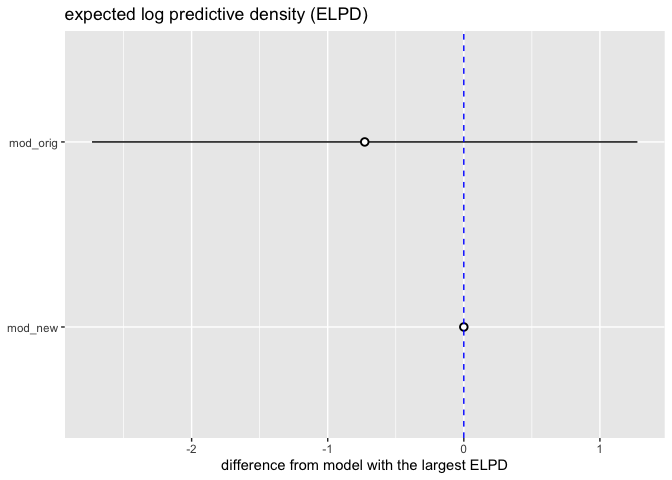
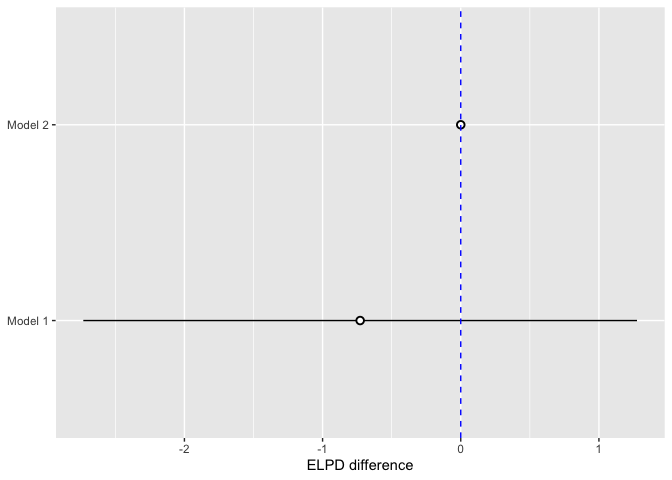
Make additional figure

diff --git a/code/exploration/33_seed-preds-model.md b/code/exploration/33_seed-preds-model.md
@@ -1,7 +1,7 @@
 Seed predators model
 ================
 Eleanor Jackson
-24 April, 2026
+28 April, 2026
 
 ``` r
 library("tidyverse")
@@ -78,18 +78,21 @@ print(comp, digits = 3)
     ## mod_orig -0.728     2.004
 
 ``` r
-comp %>% 
+loo_comp <- 
+  comp %>% 
   data.frame() %>% 
   rownames_to_column(var = "model_name") %>% 
-  ggplot(aes(x    = model_name, elpd_diff, 
+  mutate(name= c("Model 2", "Model 1")) %>% 
+  ggplot(aes(x    = name, elpd_diff, 
              y    = elpd_diff, 
              ymin = elpd_diff - se_diff, 
              ymax = elpd_diff + se_diff)) +
   geom_pointrange(shape = 21, fill = "white") +
   coord_flip() +
   geom_hline(yintercept = 0, colour = "blue", linetype = 2) +
-  labs(x = NULL, y = "difference from model with the largest ELPD", 
-       title = "expected log predictive density (ELPD)") 
+  labs(x = NULL, y = "ELPD difference") 
+
+loo_comp
 ```
 
 ![](figures/33_seed-preds-model/loo-compare-1.png)<!-- -->
@@ -98,8 +101,8 @@ comp %>%
 my_coef_tab <-
   tibble(fit = list(mod_orig,
                     mod_new),
-         model = c("mod_orig",
-                   "mod_new")) %>%
+         model = c("Model 1",
+                   "Model 2")) %>%
   mutate(tidy = purrr::map(
     fit,
     tidy,
@@ -120,19 +123,48 @@ my_coef_tab <-
 ## Compare parameter estimates
 
 ``` r
-my_coef_tab %>% 
+names <-
+  c("Intercept",
+    "Reproductive conspecific density",
+    "Reproductive heterospecific density",
+    "Non-reproductive conspecific density",
+    "log Total seeds",
+    "log Species abundance",
+    "Presence of seed predator")
+
+values <-
+  c("(Intercept)",
+    "conn_RC_sc",
+    "conn_RH_sc",
+    "conn_NRC_sc",
+    "log_total_seeds_sc",
+    "log_median_abundance_sc",
+    "SeedPred_pres1")
+
+lookup <- setNames(names, values)
+```
+
+``` r
+param_comp <- 
+  my_coef_tab %>% 
+  mutate(term = str_replace_all(term, lookup)) %>% 
   mutate(term = as.factor(term)) %>% 
   ggplot(aes(x = term, y = estimate, ymin = conf.low, ymax = conf.high)) +
-  geom_pointrange(shape = 21, fill = "white") +
+  geom_pointrange(shape = 21, fill = "white", size = 0.5) +
   labs(x = "Parameters",
        y = "Estimate ± CI [95%]") +
   geom_hline(yintercept = 0,  color = "blue") +
   coord_flip() +
   theme_bw() +
-  facet_grid(term~model, drop=TRUE, scales = "free")
+  facet_grid(~model, drop=TRUE, scales = "free") +
+  theme(strip.text.y = element_blank())
 ```
 
-![](figures/33_seed-preds-model/estimate-compare-1.png)<!-- -->
+``` r
+param_comp + loo_comp
+```
+
+![](figures/33_seed-preds-model/unnamed-chunk-6-1.png)<!-- -->
 
 ## Conditional effects plots for `mod_new`
 
@@ -154,7 +186,7 @@ wrap_plots(
   coord_cartesian(ylim = c(0,1))
 ```
 
-![](figures/33_seed-preds-model/unnamed-chunk-5-1.png)<!-- -->
+![](figures/33_seed-preds-model/unnamed-chunk-7-1.png)<!-- -->
 
 ``` r
 wrap_plots(
@@ -168,7 +200,7 @@ wrap_plots(
   theme(legend.position = "top")
 ```
 
-![](figures/33_seed-preds-model/unnamed-chunk-5-2.png)<!-- -->
+![](figures/33_seed-preds-model/unnamed-chunk-7-2.png)<!-- -->
 
 ``` r
 wrap_plots(
@@ -181,7 +213,7 @@ wrap_plots(
   theme(legend.position = "top")
 ```
 
-![](figures/33_seed-preds-model/unnamed-chunk-5-3.png)<!-- -->
+![](figures/33_seed-preds-model/unnamed-chunk-7-3.png)<!-- -->
 
 ``` r
 wrap_plots(
@@ -194,7 +226,7 @@ wrap_plots(
   theme(legend.position = "top")
 ```
 
-![](figures/33_seed-preds-model/unnamed-chunk-5-4.png)<!-- -->
+![](figures/33_seed-preds-model/unnamed-chunk-7-4.png)<!-- -->
 
 ## Look at stabilising CDD
 
@@ -293,7 +325,7 @@ species_rc_rh_summary %>%
   )
 ```
 
-![](figures/33_seed-preds-model/unnamed-chunk-7-1.png)<!-- -->
+![](figures/33_seed-preds-model/unnamed-chunk-9-1.png)<!-- -->
 
 ``` r
 seedpred_effect_on_rc_rh <- draws %>%
